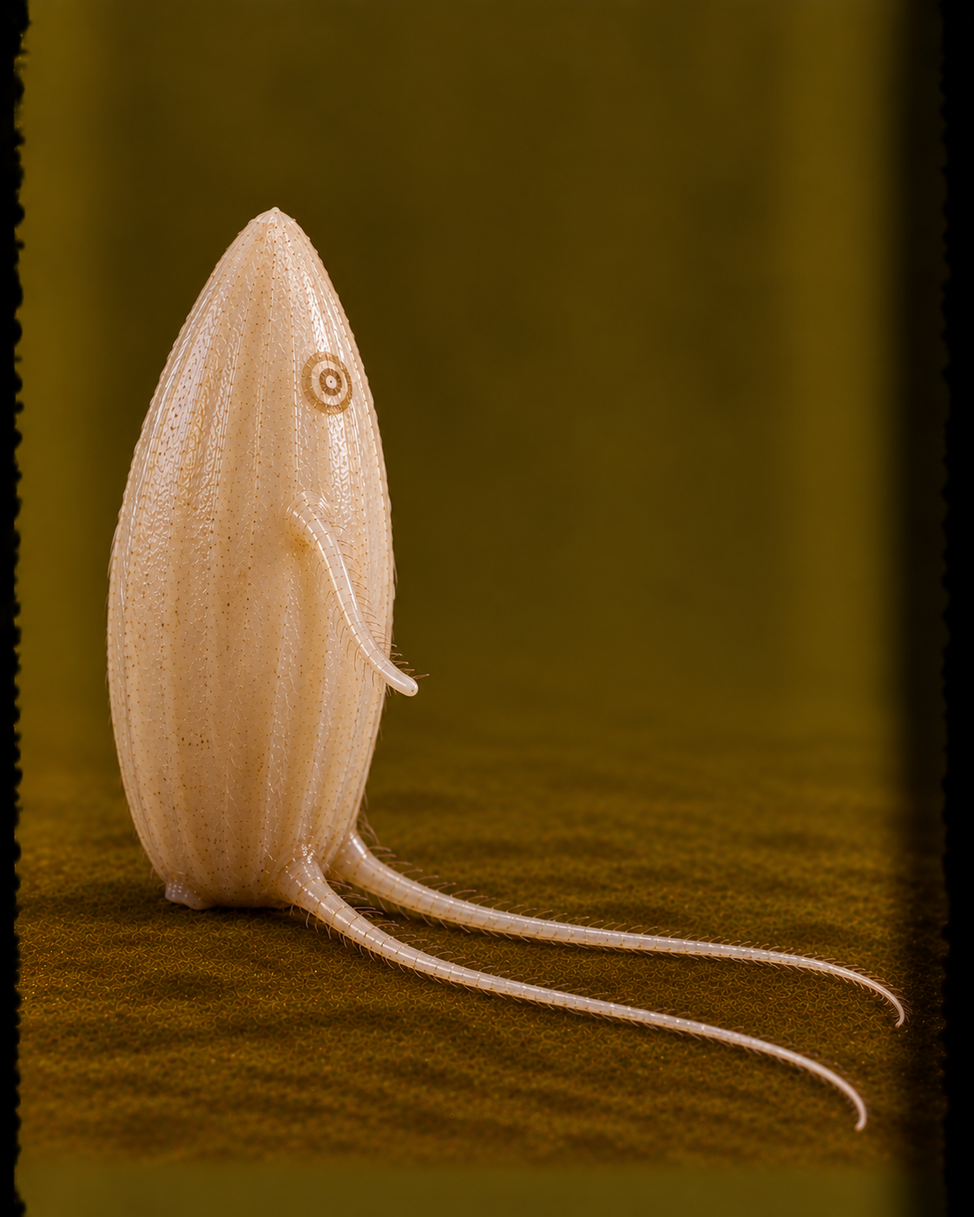
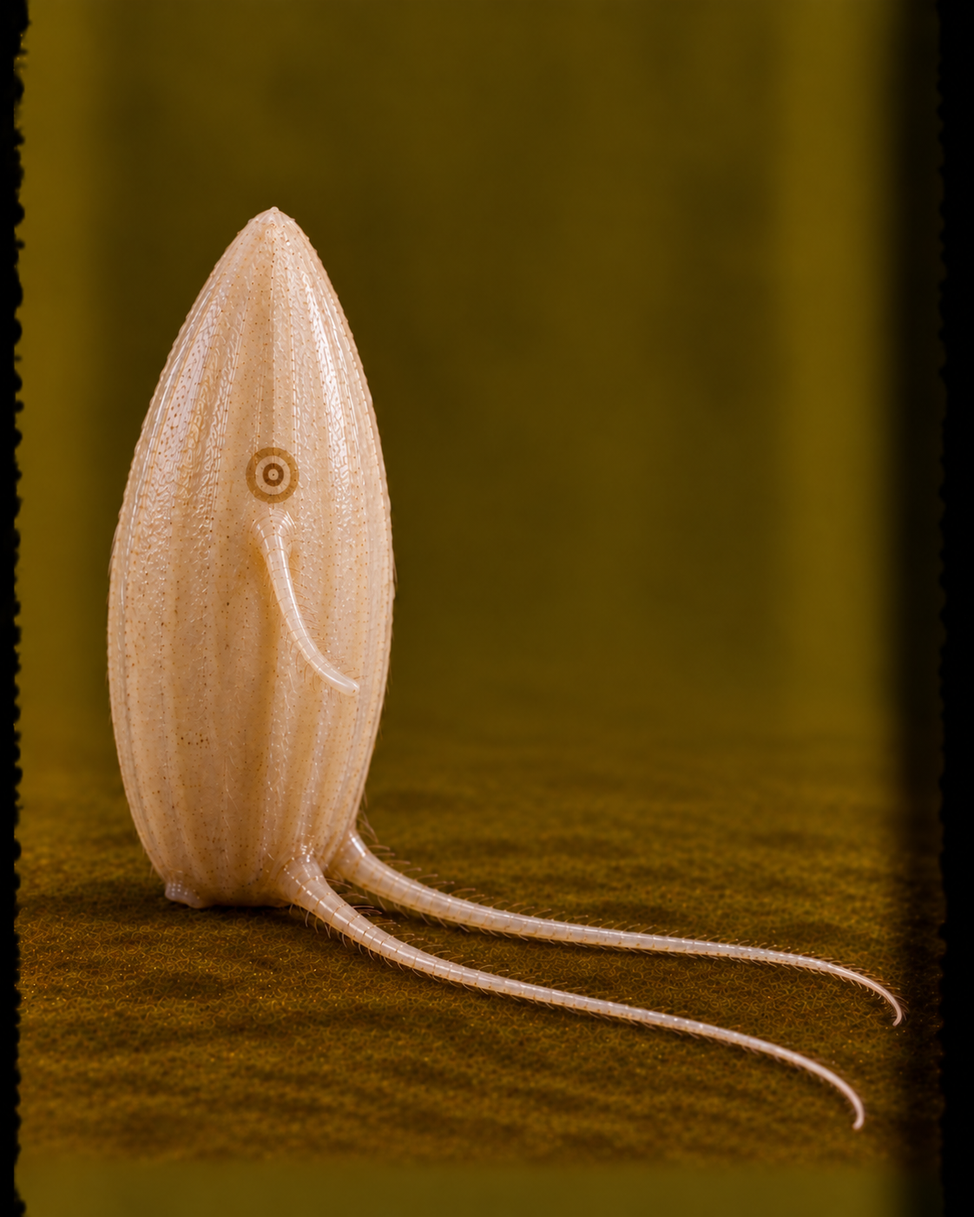
3 novas moscas

Changed region(s): [[0.0312, 0.6748, 0.9358, 0.9508], [0.1248, 0.1534, 0.4367, 0.6441]]

diff --git a/src/data/insetos.ts b/src/data/insetos.ts
@@ -3271,13 +3271,199 @@ O que poucos sabem é que tanto os tropeços quanto a gentileza fazem parte de u
 Durante o contato, uma Moskorobi pode implantar discretamente um Ovobake em algum ferimento do inseto. Em outros casos, deixa o Ovobake preso ao corpo do viajante, que continua seu caminho sem perceber que o está carregando.
 
 Assim, o inseto que recebeu a ajuda de uma Moskorobi pode acabar levando consigo aquilo que dará origem a outro Myoskai — ou até transmiti-lo involuntariamente para outra criatura.`;
+const descricaoAsawang = `Asawang é uma daquelas Myoskais com quem não há muito o que conversar. As fêmeas se importam apenas com a própria alimentação e com seu ciclo reprodutivo. Diferente da maioria, Asawang gera seu Ovobake e o mantém dentro de si, permitindo que seu único filhote ecloda e passe todo o período larval em seu interior.
 
-// const descricaoOvobake = ``;
-// const descricaoOvobake = ``;
-// const descricaoOvobake = ``;
-// const descricaoOvobake = ``;
-// const descricaoOvobake = ``;
-// const descricaoOvobake = ``;
+A larva Asawang cresce e se desenvolve dentro do abdômen da mãe, que aumenta progressivamente, tornando-a mais lenta e pesada. Com o tempo, ela passa a voar cada vez menos e adota estratégias de emboscada para surpreender suas presas enquanto arrasta o enorme abdômen que carrega a larva.
+
+Desenvolver seu filhote exige muita alimentação. Asawang precisa produzir o leite necessário para sustentá-lo e, para isso, precisa de muito sangue, tornando essa Myoskai ainda mais perigosa durante esse período.
+
+Sua picada causa sonolência e paralisia, fazendo do primeiro ataque uma parte importante da caçada. Mesmo que a presa consiga escapar após ser picada, dificilmente irá muito longe.
+
+Asawang é tão temida pelos habitantes comuns que alguns insetos valentes se dedicam a caçá-la, especialmente quando está nesse estado de incubação, quando existe a possibilidade de destruir duas de uma vez.
+
+Até mesmo dentro de Sun-hon, o clã Shosabae precisa eliminá-las quando os ataques começam a se tornar frequentes, apesar de pertencerem a uma linhagem de sua própria espécie.`;
+const descricaoSonogaeshi = `Sonogaeshi já foi apenas uma lenda urbana entre os insetos, mas hoje eles sabem que a criatura realmente existe.
+
+Os relatos dos poucos sobreviventes eram semelhantes: após sentirem uma picada, acordavam e percebiam que, apesar de conscientes, não conseguiam se mover. Era como se o corpo permanecesse preso em algum lugar entre o sonho e o despertar.
+
+E ali, paralisados pelo terror, viam uma criatura horrenda encarando-os.
+
+Uma pupa de longos pelos e olhos assustadores permanecia imóvel nas proximidades, como se estivesse apenas observando sua presa. Durante a paralisia, Sonogaeshi parecia ficar cada vez mais próxima. Ninguém conseguia vê-la realmente se mover; a cada instante, porém, ela simplesmente parecia estar um pouco mais perto.
+
+Até estar sobre o inseto, pesando sobre ele como uma conquista.
+
+Quando finalmente conseguiam se mover novamente, Sonogaeshi havia desaparecido. Restava apenas a conclusão de que tudo não passara de um terrível pesadelo.
+
+Mas caçadores de Myoskais acabaram revelando que Sonogaeshi é real.
+
+A pupa estava apenas esperando o fim de sua transformação. O inseto atacado pela sonolência seria sua primeira vítima assim que ela emergisse.
+
+Os poucos que sobreviveram para contar os antigos relatos não acordaram de um pesadelo.
+
+Apenas tiveram a sorte de alguma coisa encontrar Sonogaeshi antes que sua transformação terminasse.`;
+const descricaoTsenanggal = `Tsenanggal é como são chamadas as Asawang adultas, que parecem possuir apenas metade do corpo. Como seu abdômen e suas pernas traseiras são finos e menores que a parte dianteira, esse efeito surge naturalmente e causa certo terror quando são vistas voando.
+
+Existem vários relatos de Tsenangals que se separam do próprio abdômen antes de perseguir algum inseto. Muitos afirmam ter visto claramente a criatura deixando um abdômen inteiro no chão e partindo logo em seguida para a caçada.
+
+Na verdade, o que testemunharam foi algo extremamente incomum: a Tsenanggal estava colocando para fora do corpo a pupa de seu filhote.
+
+Normalmente, a Tsenanggal ainda precisa encontrar a primeira alimentação desse filhote. Por isso, abandona o Sonogaeshi próximo de uma possível vítima, persegue o inseto e o pica, causando sonolência e paralisia. Depois, pode permitir que o Sonogaeshi se aproxime de sua primeira alimentação ou, caso a vítima tenha conseguido fugir, levá-la para perto dele.
+
+O mais comum, porém, é procurar um inseto que já esteja adormecido. A Tsenanggal invade seu abrigo, pica a vítima enquanto ela dorme e vai embora, deixando o Sonogaeshi lá dentro.
+
+Tsenanggal precisa se alimentar exclusivamente do sangue de outros insetos e, por isso, é uma predadora extremamente ativa e caçada onde quer que apareça. Não se intimida com adversários maiores e utiliza sua incrível capacidade de voo e sua picada paralisante, sendo perigosa para a maioria dos insetos, principalmente aqueles com exoesqueleto pouco resistente ou lentos demais para se defender.
+
+Apesar de ser considerada uma grande ameaça e uma Myoskai cuja presença causa pânico nas proximidades, alguns poucos insetos já conseguiram se comunicar com uma Tsenanggal completamente satisfeita. Segundo eles, ela não é irracional nem idiota. Sabe que é caçada e demonstra um cuidado incomum com seus filhotes. Uma Tsenanggal dedica grande parte de seu ciclo a uma única Asawang, carregando-a e alimentando-a dentro do próprio corpo até que esteja pronta para pupar. Mesmo ao expulsar o Sonogaeshi, seu cuidado ainda não terminou: ela procura e paralisa aquela que será sua primeira refeição antes de finalmente abandoná-lo..
+
+Ainda assim, o ideal é evitar um inseto tão agressivo. Principalmente porque nunca se sabe quando uma Tsenanggal está desenvolvendo uma pequena Asawang dentro de si.
+
+Nos primeiros estágios, sua presença sequer pode ser percebida no abdômen reduzido da mãe.`;
+const descricaoKuroashi = `Kuroashis são as larvas das Daimydas, as Myoskais governantes de Sun-hon, e provavelmente as maiores larvas de Myoskai existentes. Entretanto, apenas o clã Shosabae conhece essa relação, e pouquíssimos insetos afirmam ter visto uma Kuroashi por inteiro.
+
+Elas passam praticamente toda a vida escondidas dentro de substratos de madeira ou sob o solo, mantendo o corpo completamente enterrado. Alimentam-se dos recursos disponíveis nesses ambientes e, ocasionalmente, de algum inseto desprevenido que se aproxime demais.
+
+Para a maioria dos habitantes de Sun-hon, porém, Kuroashi não passa de uma velha lenda.
+
+Dizem que elas podem surgir repentinamente dos lugares mais improváveis e agarrar um inseto antes que ele tenha tempo de reagir, arrastando-o para dentro do solo ou do substrato. Há relatos ainda mais estranhos de insetos que ouviram uma Kuroashi chamando por eles de um lugar aparentemente vazio. Ao se aproximarem para procurar a origem da voz, viram surgir uma cabeça negra e peluda, sustentada por um longo pescoço que se projetava para fora do chão antes de agarrá-los.
+
+Segundo aqueles que dizem ter visto uma, sua cabeça possui uma aparência tão estranha que dificilmente é reconhecida como parte de uma larva. Negra, peluda e cercada por estruturas bucais pontiagudas, ela se parece mais com uma garra afiada saindo do chão. Essa cabeça pode se projetar para longe do corpo e desaparecer novamente no substrato quando retraída.
+
+Talvez tudo isso seja apenas uma lenda.
+
+Ainda assim, o desaparecimento ocasional de praticantes da Palavra da Vida e de insetos estrangeiros dentro dos próprios abrigos apresenta, às vezes, uma coincidência desconfortável com relatos de avistamentos de Kuroashis nas proximidades.
+
+Em alguns desses casos, há quem afirme que um Ovobake foi encontrado ou visto no abrigo algum tempo antes do desaparecimento.
+
+Naturalmente, ninguém conseguiu demonstrar qualquer relação entre uma coisa e outra.
+
+E Sun-hon sempre foi uma terra particularmente fértil para histórias bizarras e boatos.`;
+const descricaoMayukade = `Mayukade é uma criatura que vive nos lugares escuros de Sun-hon, escondida em câmaras subterrâneas, sob o solo ou no interior de pedaços de madeira abandonados e parcialmente enterrados. Encontrar uma nos subterrâneos não é algo comum — e aqueles que encontram geralmente preferem fugir antes de descobrir muito mais sobre ela.
+
+Mayukades possuem um corpo incrivelmente resistente. Dizem que sua carapaça é tão dura que um ferrão pode se quebrar ao atingi-la. Suas cem patas são longas, negras e duras como espinhos, enquanto duas enormes pinças vermelhas se projetam da parte superior de seu corpo.
+
+Sua mordida é venenosa.
+
+Por isso, Mayukades são consideradas alguns dos predadores mais perigosos dos subterrâneos de Sun-hon.
+
+Durante grandes tempestades, quando nuvens cobrem completamente o céu e a chuva encharca a terra, torna-se mais comum encontrar Mayukades saindo do solo. Vê-las brotando da terra úmida é considerado um sinal de mau presságio.
+
+Uma antiga lenda de Sun-hon afirma que as Mayukades encontradas próximas à superfície são apenas filhotes de uma monstruosa centopeia negra que habita as profundezas.
+
+Existe ainda uma famosa história sobre o único inseto que teria conseguido ferir mortalmente uma Mayukade. Ele teria acertado a criatura com um ferrão cuja ponta estava, por mero acaso, coberta pela saliva corrosiva de uma Myoskai.
+
+O golpe atravessou sua proteção e matou a Mayukade.
+
+Desde então, a saliva de Myoskai é considerada sua única fraqueza conhecida.
+
+Lendas sobre Mayukades são relativamente comuns em Sun-hon. Algumas provavelmente cresceram a cada vez que foram contadas; outras podem ter surgido simplesmente do medo de encontrar uma dessas criaturas debaixo da terra.
+
+Mas existe uma parte da história que quase todos desconhecem.
+
+Mayukade não é uma centopeia.
+
+Ela é a pupa de uma Daimydas.
+
+Somente o clã Shosabae conhece a verdadeira metamorfose de suas governantes e sabe que as criaturas encontradas nos subterrâneos fazem parte de sua própria linhagem.
+
+As supostas cem patas são fileiras de longos espinhos negros que percorrem o abdômen segmentado da pupa. As grandes pinças vermelhas são, na verdade, dois espinhos que lembram chifres, e sua famosa mordida venenosa provavelmente nunca existiu.
+
+Ainda assim, Mayukades estão longe de ser indefesas. São pupas incomuns, capazes de movimentar o corpo e avançar lentamente pelo substrato. Seus espinhos ajudam nesse deslocamento e tornam perigoso tentar agarrá-las ou atacá-las.
+
+As tempestades também possuem uma explicação muito diferente daquela preservada pelas lendas.
+
+Quando a chuva encharca Sun-hon, o solo se torna mais fácil de atravessar. Mayukades que estão próximas de completar sua transformação aproveitam a terra úmida para deixar suas câmaras subterrâneas e alcançar a superfície. E algum tempo depois, no mesmo lugar onde uma Mayukade desapareceu, uma nova Daimydas pode abrir suas asas sobre Sun-hon.
+
+Somente o clã Shosabae conhece toda a origem de suas governantes.`;
+const descricaoDaimydas = `Daimydas são as Myoskais que governam as vastas terras de Sun-hon. São consideradas as maiores Myoskais conhecidas, possuindo um exoesqueleto negro e resistente e uma aparência intimidadora que lembra alguns Vespaleiros Caçadores.
+
+Apesar disso, Daimydas não possuem ferrões e raramente demonstram comportamento agressivo. Passam boa parte de seus dias entre os grandes jardins de suas terras e não parecem se alimentar de outros insetos. Sua aparência ameaçadora contrasta tanto com seus hábitos que visitantes desavisados frequentemente esperam encontrar nelas predadoras muito mais perigosas do que realmente são.
+
+Elas são as líderes do clã Shosabae, que governa Sun-hon desde antes de qualquer registro conhecido. O território é dividido entre diferentes famílias Daimydas, cada uma responsável por uma região onde vive, se reproduz e administra as comunidades sob sua proteção. Disputas internas existem, mas raramente ameaçam a autoridade do clã como um todo.
+
+Sun-hon é considerada uma terra próspera. Seus extensos jardins fornecem alimento em abundância, suas rotas internas são protegidas e muitos insetos que nasceram ali vivem toda a vida sem conhecer grandes períodos de escassez ou conflito. Para seus habitantes, as Daimydas geralmente são vistas como governantes firmes e competentes.
+
+Essa prosperidade, entretanto, possui um preço.
+
+As fronteiras de Sun-hon são rigidamente controladas. A migração de insetos estrangeiros é limitada e ideias consideradas capazes de ameaçar a ordem estabelecida são reprimidas. Entre elas, nenhuma é tratada com tanta hostilidade quanto a Palavra da Vida.
+
+Daimydas proíbem sua propagação dentro de Sun-hon. Insetos que tentam converter seus habitantes, estabelecer comunidades religiosas ou divulgar abertamente seus ensinamentos podem ser perseguidos e expulsos. Aqueles que insistem em permanecer correm riscos maiores.
+
+Para preservar suas fronteiras e sua autoridade, o clã Shosabae mantém uma extensa rede de Moshinobis, utilizados como espiões e informantes. Quando espionagem e expulsão não são suficientes, entram em ação os Ibarakihae, assassinos temidos até mesmo entre outras Myoskais. As Daimydas também podem mobilizar os numerosos Kabutouros encontrados em Sun-hon para impedir invasões, ocupações ou a abertura de novas rotas através de suas terras.
+
+Esse isolamento transformou Sun-hon em um dos maiores obstáculos encontrados pela Organização do Besouro Dourado.
+
+Segundo seus ensinamentos, uma das principais rotas para a Terra das Flores Douradas atravessa justamente Sun-hon, a vasta terra onde nasce o sol da manhã. Ao longo do tempo, diversas tentativas foram feitas para converter seus habitantes, estabelecer presença permanente na região ou simplesmente garantir passagem segura através dela.
+
+Todas terminaram em grandes fracassos.
+
+Os seguidores da Palavra da Vida acusam o clã Shosabae de impedir deliberadamente o caminho para a Terra das Flores Douradas. As Daimydas, por sua vez, afirmam que nenhuma crença concede a estrangeiros o direito de atravessar, converter ou ocupar suas terras contra sua vontade.
+
+Dentro de Sun-hon, poucas criaturas questionam essa posição. Para grande parte de seus habitantes, as Daimydas são simplesmente as governantes que mantêm seus jardins férteis, suas comunidades protegidas e suas terras em paz.
+
+Fora de Sun-hon, porém, existe uma interpretação muito mais sombria.
+
+Alguns seguidores da Palavra da Vida acreditam que não é coincidência que uma das maiores espécies de Myoskai conhecidas governe justamente as terras que bloqueiam sua principal rota sagrada. Para eles, as Daimydas mantêm os insetos afastados da Terra das Flores Douradas usando sua própria espécie de detestáveis Myoskais, além de espiões, assassinos e guerreiros que impedem qualquer avanço por suas terras.
+
+Para esses seguidores, as Daimydas não estão apenas impedindo o caminho para a Terra das Flores Douradas.
+
+Elas são as próprias Inimigas Aladas.`;
+const descricaoRatesso = `Ratesso é uma detestável larva de Myoskai.
+
+Elas costumam permanecer escondidas nos arredores das colônias e, quando uma finalmente é encontrada, é provável que muitas outras já estejam espalhadas pelo local. Apesar de não representarem grande ameaça física, Ratessos são consideradas criaturas nojentas e podem estar associadas a doenças e contaminações, tornando sua presença um enorme transtorno para qualquer colônia.
+
+Possuem uma resistência impressionante, conseguindo sobreviver na água, na lama e em ambientes tão sujos e degradados que poucos insetos esperariam encontrar alguma criatura vivendo ali. Ratessos devoram os recursos disponíveis e rapidamente tornam o ambiente desagradável, sendo tratadas como uma verdadeira praga.
+
+Elas parecem perfeitamente conscientes do quanto são detestadas — e aparentemente se divertem com isso.
+
+Ratessos podem surgir em grandes grupos para invadir alimentos estocados, espalhar sujeira, bagunçar o ambiente e pregar peças nos habitantes da colônia. Quanto maior a irritação causada, mais satisfeitas parecem ficar.
+
+Existe ainda uma antiga superstição sobre essas infestações.
+
+Dizem que uma colônia tomada por Ratessos está sendo alvo de uma vingança premeditada. Alguém daquele lugar teria cometido algo terrível e, por alguma razão, as Ratessos foram enviadas para atormentá-lo.
+
+Os mais velhos costumam ser ainda mais específicos:
+
+onde surgem Ratessos, provavelmente houve uma traição.`;
+const descricaoVolumezumi = `Quando uma Ratesso está pronta, já se alimentou o suficiente e atazanou insetos demais, ela finalmente abandona a colônia junto das demais e procura um lugar mais pacato. Assim termina o período de infestação do lugar onde viviam.
+
+Entretanto, os locais para onde elas seguem logo ficam repletos de Volumezumis.
+
+Volumezumi é uma pupa de Myoskai que lembra uma Ratesso extremamente gorda. Ela permanece praticamente imóvel durante sua transformação, limitando-se a pequenos movimentos e a balançar seu longo sifão como uma cauda.
+
+O mais estranho é sua capacidade de inflar e retrair o próprio corpo. Quando algum inseto se aproxima, a Volumezumi começa a inchar e contrair repetidamente, ficando cada vez mais volumosa, como se estivesse prestes a explodir a qualquer instante.
+
+Isso costuma ser suficiente para provocar pânico.
+
+A situação é ainda pior quando existem várias Volumezumis espalhadas pelo local, principalmente quando estão posicionadas nas possíveis rotas de fuga. Tentar escapar enquanto dezenas delas começam a inflar ao redor pode transformar uma simples passagem pelo lugar em uma experiência desesperadora.
+
+É aconselhável nunca avançar por uma região onde uma Volumezumi tenha sido encontrada. O mais seguro é retornar imediatamente pelo mesmo caminho. Caso se escute um forte som de estouro vindo de algum lugar adiante, recomenda-se fazer exatamente a mesma coisa.
+
+Curiosamente, ninguém jamais confirmou ter visto uma Volumezumi realmente explodir.
+
+Isso, porém, não tranquiliza ninguém.
+
+Afinal, se alguma delas realmente explodiu, talvez não existam testemunhas justamente porque ninguém sobreviveu para contar.`;
+const descricaoNectanuki = `Nectanuki é possivelmente a Myoskai mais agradável conhecida. Ela é simpática, bem-humorada e passa boa parte do dia entre as flores, ajudando a transformar os ambientes onde trabalha em lugares melhores.
+
+É boa de conversa, possui grande habilidade manual e um voo extremamente sofisticado. Sua aparência mal lembra a de uma Myoskai, não fosse pelo fato de possuir apenas duas asas.
+
+Nectanukis são frequentemente confundidas com Abelárias, tanto pela aparência quanto pela alimentação e pela maneira como trabalham diariamente entre as flores. O que geralmente acaba denunciando que há algo diferente é seu comportamento brincalhão.
+
+Nectanukis têm o hábito de batucar no próprio traseiro, contar histórias engraçadas sobre situações inacreditáveis que parecem acontecer somente com elas e fazer brincadeiras pouco compatíveis com a seriedade habitual das Abelárias.
+
+Por trás de toda essa simpatia, entretanto, existe um lado bastante sombrio.
+
+Quando uma Nectanuki se considera gravemente ofendida, ela pode guardar rancor do inseto responsável — e, às vezes, de toda a sua colônia. O mais preocupante é que ela não demonstra imediatamente sua insatisfação. Continua conversando, trabalhando e se comportando como amiga enquanto prepara sua vingança.
+
+A partir daí, começa discretamente a espalhar Ovobakes pelo abrigo do inseto ou pela colônia.
+
+Para isso, utiliza praticamente qualquer estratégia que estiver ao seu alcance. Se tiver acesso ao lugar, pode simplesmente escondê-los. Pode oferecer presentes contendo Ovobakes disfarçados, convencer outros insetos de que eles são alguma coisa completamente diferente ou fazer com que sejam levados para dentro sem levantar suspeitas.
+
+Quando nenhuma dessas estratégias funciona, Nectanuki espera não estar sendo observada e simplesmente arremessa vários Ovobakes para dentro.
+
+Depois vai embora.
+
+Escondida em algum lugar, ela ri enquanto espera o pior acontecer.`;
 // const descricaoOvobake = ``;
 // const descricaoOvobake = ``;
 // const descricaoOvobake = ``;
@@ -4644,7 +4830,7 @@ export const insetos: Inseto[] = [
     estagio: 'forma ovo',
     ...dadosPendentes,
     tags: ['moscas'],
-    evolucoes: [{ insetoId: 'tapuli', tipo: 'ramificada' }, { insetoId: 'yoshukubi', tipo: 'ramificada' }, { insetoId: 'futakuchi', tipo: 'ramificada' }],
+    evolucoes: [{ insetoId: 'tapuli', tipo: 'ramificada' }, { insetoId: 'yoshukubi', tipo: 'ramificada' }, { insetoId: 'futakuchi', tipo: 'ramificada' }, { insetoId: 'asawang', tipo: 'ramificada' }, { insetoId: 'ratesso', tipo: 'ramificada' }, { insetoId: 'kuroashi', tipo: 'ramificada' }],
   },
   {
     id: 'tapuli',
@@ -4685,6 +4871,48 @@ export const insetos: Inseto[] = [
     ...dadosPendentes,
     tags: ['moscas'],
     evolucoes: [{ insetoId: 'noppupabo', tipo: 'linear' }],
+    evolucaoDe: [{ insetoId: 'ovobake', tipo: 'linear' }],
+    tipoEvolucao: 'ramificada',
+  },
+  {
+    id: 'asawang',
+    nome: 'Asawang',
+    nomeIngles: 'Asawang',
+    imagem: '/images/moscas/asawang.png',
+    descricao: descricaoAsawang,
+    linhagem: 'moscas',
+    estagio: 'forma final e larva',
+    ...dadosPendentes,
+    tags: ['moscas'],
+    evolucoes: [{ insetoId: 'sonogaeshi', tipo: 'linear' }],
+    evolucaoDe: [{ insetoId: 'ovobake', tipo: 'linear' }],
+    tipoEvolucao: 'ramificada',
+  },
+  {
+    id: 'ratesso',
+    nome: 'Ratesso',
+    nomeIngles: 'Ratesso',
+    imagem: '/images/moscas/ratesso.png',
+    descricao: descricaoRatesso,
+    linhagem: 'moscas',
+    estagio: 'forma larva',
+    ...dadosPendentes,
+    tags: ['moscas'],
+    evolucoes: [{ insetoId: 'volumezumi', tipo: 'linear' }],
+    evolucaoDe: [{ insetoId: 'ovobake', tipo: 'linear' }],
+    tipoEvolucao: 'ramificada',
+  },
+  {
+    id: 'kuroashi',
+    nome: 'Kuroashi',
+    nomeIngles: 'Kuroashi',
+    imagem: '/images/moscas/kuroashi.png',
+    descricao: descricaoKuroashi,
+    linhagem: 'moscas',
+    estagio: 'forma larva',
+    ...dadosPendentes,
+    tags: ['moscas'],
+    evolucoes: [{ insetoId: 'mayukade', tipo: 'linear' }],
     evolucaoDe: [{ insetoId: 'ovobake', tipo: 'linear' }],
     tipoEvolucao: 'ramificada',
   },
@@ -4731,6 +4959,48 @@ export const insetos: Inseto[] = [
     tipoEvolucao: 'linear',
   },
   {
+    id: 'sonogaeshi',
+    nome: 'Sonogaeshi',
+    nomeIngles: 'Sonogaeshi',
+    imagem: '/images/moscas/sonogaeshi.png',
+    descricao: descricaoSonogaeshi,
+    linhagem: 'moscas',
+    estagio: 'forma casulo',
+    ...dadosPendentes,
+    tags: ['moscas'],
+    evolucoes: [{ insetoId: 'tsenanggal', tipo: 'linear' }],
+    evolucaoDe: [{ insetoId: 'asawang', tipo: 'linear' }],
+    tipoEvolucao: 'linear',
+  },
+  {
+    id: 'volumezumi',
+    nome: 'Volumezumi',
+    nomeIngles: 'Volumezumi',
+    imagem: '/images/moscas/volumezumi.png',
+    descricao: descricaoVolumezumi,
+    linhagem: 'moscas',
+    estagio: 'forma casulo',
+    ...dadosPendentes,
+    tags: ['moscas'],
+    evolucoes: [{ insetoId: 'nectanuki', tipo: 'linear' }],
+    evolucaoDe: [{ insetoId: 'ratesso', tipo: 'linear' }],
+    tipoEvolucao: 'linear',
+  },
+  {
+    id: 'mayukade',
+    nome: 'Mayukade',
+    nomeIngles: 'Mayukade',
+    imagem: '/images/moscas/mayukade.png',
+    descricao: descricaoMayukade,
+    linhagem: 'moscas',
+    estagio: 'forma casulo',
+    ...dadosPendentes,
+    tags: ['moscas'],
+    evolucoes: [{ insetoId: 'daimydas', tipo: 'linear' }],
+    evolucaoDe: [{ insetoId: 'kuroashi', tipo: 'linear' }],
+    tipoEvolucao: 'linear',
+  },
+  {
     id: 'tikitiki',
     nome: 'Tiki-Tiki',
     nomeIngles: 'Tiki-Tiki',
@@ -4770,6 +5040,48 @@ export const insetos: Inseto[] = [
     tags: ['moscas'],
     evolucoes: [],
     evolucaoDe: [{ insetoId: 'shogulo', tipo: 'linear' }],
+    tipoEvolucao: 'linear',
+  },
+  {
+    id: 'tsenanggal',
+    nome: 'Tsenanggal',
+    nomeIngles: 'Tsenanggal',
+    imagem: '/images/moscas/tsenanggal.png',
+    descricao: descricaoTsenanggal,
+    linhagem: 'moscas',
+    estagio: 'forma comum',
+    ...dadosPendentes,
+    tags: ['moscas'],
+    evolucoes: [],
+    evolucaoDe: [{ insetoId: 'sonogaeshi', tipo: 'linear' }],
+    tipoEvolucao: 'linear',
+  },
+  {
+    id: 'nectanuki',
+    nome: 'Nectanuki',
+    nomeIngles: 'Nectanuki',
+    imagem: '/images/moscas/nectanuki.png',
+    descricao: descricaoNectanuki,
+    linhagem: 'moscas',
+    estagio: 'forma comum',
+    ...dadosPendentes,
+    tags: ['moscas'],
+    evolucoes: [],
+    evolucaoDe: [{ insetoId: 'volumezumi', tipo: 'linear' }],
+    tipoEvolucao: 'linear',
+  },
+  {
+    id: 'daimydas',
+    nome: 'Daimydas',
+    nomeIngles: 'Daimydas',
+    imagem: '/images/moscas/daimydas.png',
+    descricao: descricaoDaimydas,
+    linhagem: 'moscas',
+    estagio: 'forma comum',
+    ...dadosPendentes,
+    tags: ['moscas'],
+    evolucoes: [],
+    evolucaoDe: [{ insetoId: 'mayukade', tipo: 'linear' }],
     tipoEvolucao: 'linear',
   },
   {

diff --git a/src/data/linhagens.ts b/src/data/linhagens.ts
@@ -250,7 +250,7 @@ export const linhagens: Linhagem[] = [
     descricao: descricaoMoscas,
     imagemCapa: '/images/moscas/capa.png',
     tema: '#5c4b3a',
-    criaturas: ['ovobake','tapuli','yoshukubi', 'futakuchi', 'shogulo', 'pupanggalan', 'noppupabo', 'moshinobi', 'tikitiki', 'moskorobi'],
+    criaturas: ['ovobake','tapuli','yoshukubi', 'futakuchi','kuroashi', 'ratesso', 'asawang', 'mayukade', 'volumezumi','shogulo', 'pupanggalan', 'noppupabo', 'mayukade','sonogaeshi', 'moshinobi', 'tikitiki', 'moskorobi', 'daimydas', 'nectanuki', 'tsenanggal' ],
   },
 ]
 
